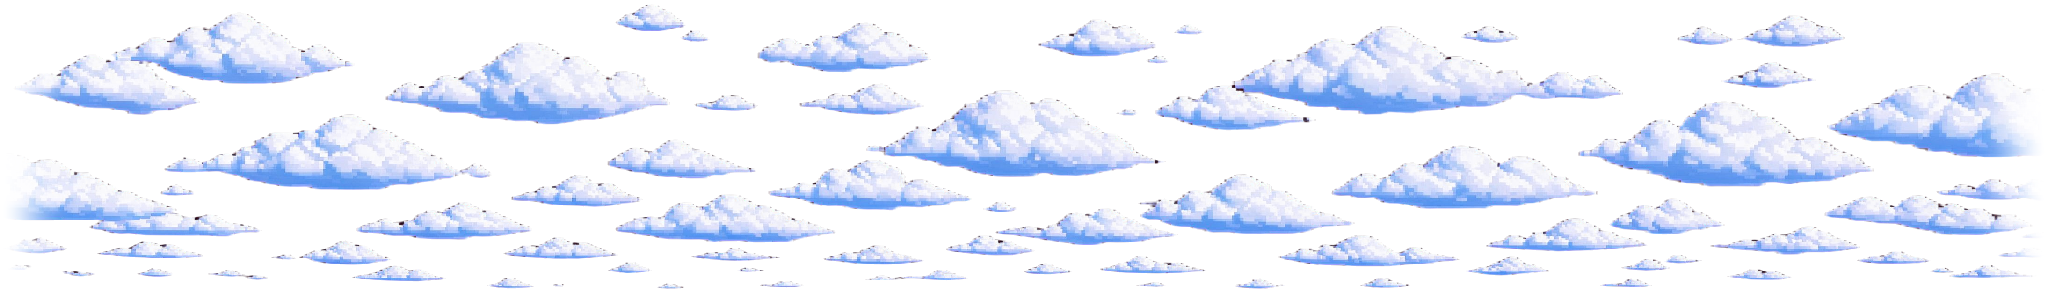
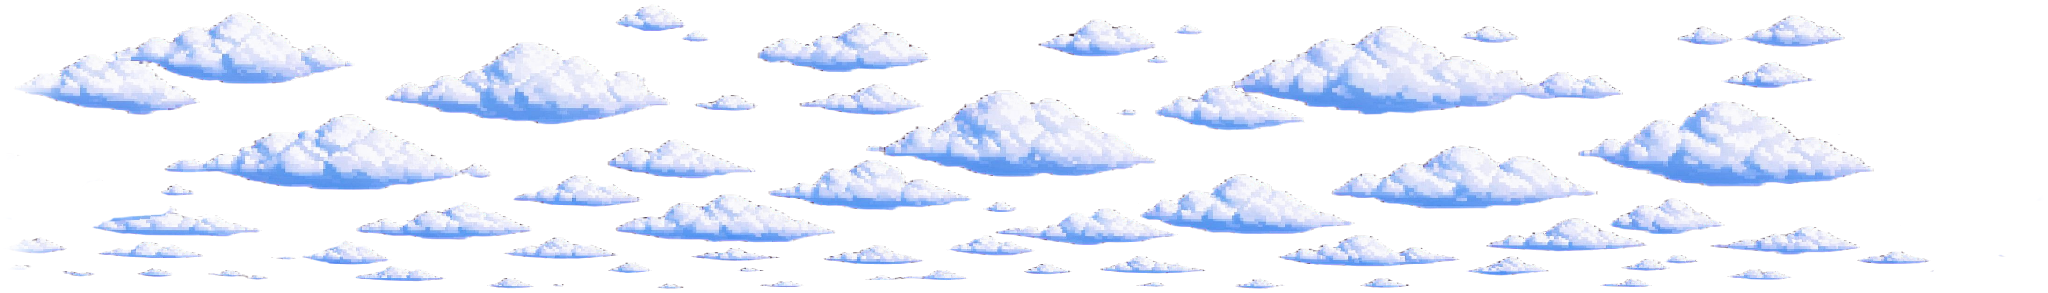
fix(bg): 雨层改为下落，近景云压到海面之上，换用新的远景云
- 雷暴（Boss 战）的雨层 offset 原来是 `offRainY_ += ...`，在 DrawTiledXY 里效果
  是整层雨往上飘；改成 `-=` 后起始 y 逐帧增大，雨滴从上往下落（速度 2.6×，
  约 680px/s）。
- Ocean 场景的绘制顺序改成 天空 → 远景云 → 海面 → 近景云：近景云的云脚不再被
  海水盖掉。海里漂的岛屿/航母仍由 drawProps() 画在最前面。
- 远景云换成美术新导出的 clouds_far.png（2048x293，左右两列像素完全一致，
  平铺无缝；旧版两端有亮边，滚动时会露出接缝）。

diff --git a/src/core/Backdrop.cpp b/src/core/Backdrop.cpp
@@ -69,7 +69,9 @@ void Backdrop::update(float dt) {
     offSea_ += v * 1.0f;
     if (preset_ == Storm) {
         offRainX_ += v * 2.1f;
-        offRainY_ += v * 1.2f;
+        // 雨往下落：offset 减小时 DrawTiledXY 的起始 y 才会逐帧增大（向下平移）。
+        // 之前是 +=，整层雨在往上飘。
+        offRainY_ -= v * 2.6f;
     }
     if (preset_ != Ocean || !propsEnabled) return;
 
@@ -127,13 +129,14 @@ void Backdrop::draw() {
     if (preset_ == Ocean) {
         if (assets::oceanSky.id) DrawTexture(assets::oceanSky, 0, 0, A(WHITE));
         DrawTiledX(assets::oceanCloudFar, 60, assets::oceanCloudFar.height * 1.0f, offFar_, A(WHITE));
-        DrawTiledX(assets::oceanCloudNear, 130, assets::oceanCloudNear.height * 1.15f, offNear_,
-                   A(WithAlpha(WHITE, 0.96f)));
-        // 海面
+        // 海面。海平线不需要额外的白色雾带：sea_tile 自带渐变，硬边的雾条反而会在
+        // 天空上横着糊出一条白带（以前踩过）。
         float seaTop = 300.0f, seaH = VH - seaTop;
         DrawTiledX(assets::oceanSea, seaTop, seaH, offSea_, A(WHITE));
-        // 这里原本压了一条"顶部 0.5 白 → 底部透明"的亮雾来盖接缝，但它的上边缘是
-        // 硬边，会在天空上横着糊出一条白带。sea_tile 自带海平线渐变，不需要再补。
+        // 近景云压在海面之上：之前画在 sea 前面，云脚全被海水盖掉了。
+        // （海里漂的岛屿/航母由 drawProps() 在更后面画，仍然在云前面）
+        DrawTiledX(assets::oceanCloudNear, 130, assets::oceanCloudNear.height * 1.15f, offNear_,
+                   A(WithAlpha(WHITE, 0.96f)));
         return;
     }
 
